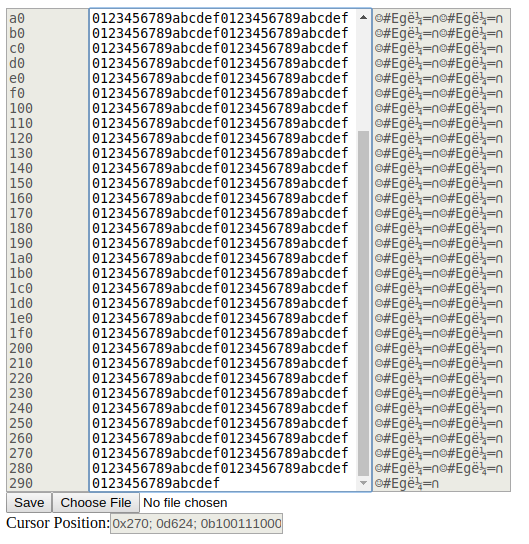
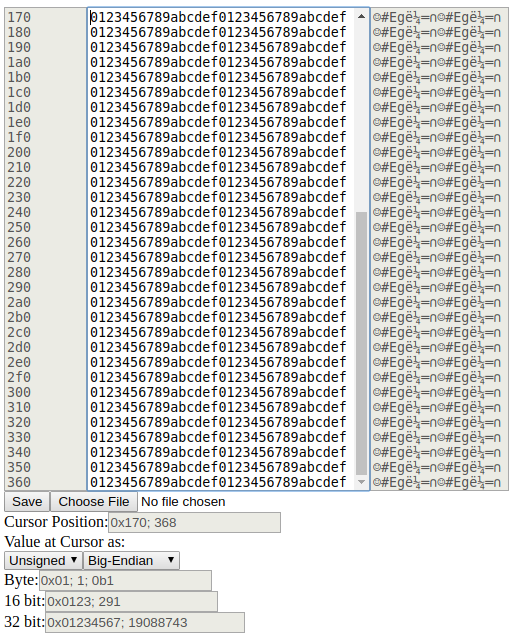
Added 'value at cursor' fields.

diff --git a/Source/Session.js b/Source/Session.js
@@ -61,18 +61,96 @@ function Session(bytes)
 
 			divSession.appendChild(divFileOperations);
 
-			var divCursor = d.createElement("div");
+			var divCursorPosition = d.createElement("div");
 
 			var labelCursorPosition = d.createElement("label");
 			labelCursorPosition.innerHTML = "Cursor Position:";
-			divCursor.appendChild(labelCursorPosition);
+			divCursorPosition.appendChild(labelCursorPosition);
 
 			var inputCursorPosition = d.createElement("input");
 			inputCursorPosition.disabled = true;
 			this.inputCursorPosition = inputCursorPosition;
-			divCursor.appendChild(inputCursorPosition);
+			divCursorPosition.appendChild(inputCursorPosition);
 
-			divSession.appendChild(divCursor);
+			divSession.appendChild(divCursorPosition);
+
+			var divCursorValue = d.createElement("div");
+
+			var labelCursorValue = d.createElement("label");
+			labelCursorValue.innerHTML = "Value at Cursor as:";
+			divCursorValue.appendChild(labelCursorValue);
+
+			var divCursorValueEncoding = d.createElement("div");
+
+			var selectSignedOrUnsigned = d.createElement("select");
+			this.selectSignedOrUnsigned = selectSignedOrUnsigned;
+
+			var optionUnsigned = d.createElement("option");
+			optionUnsigned.innerHTML = "Unsigned";
+			selectSignedOrUnsigned.appendChild(optionUnsigned);
+
+			var optionSigned = d.createElement("option");
+			optionSigned.innerHTML = "Signed";
+			selectSignedOrUnsigned.appendChild(optionSigned);
+
+			divCursorValueEncoding.appendChild(selectSignedOrUnsigned);
+
+			var selectEndianness = d.createElement("select");
+			this.selectEndianness = selectEndianness;
+
+			var optionBig = d.createElement("option");
+			optionBig.innerHTML = "Big-Endian";
+			selectEndianness.appendChild(optionBig);
+
+			var optionLittle = d.createElement("option");
+			optionLittle.innerHTML = "Little-Endian";
+			selectEndianness.appendChild(optionLittle);
+
+			divCursorValueEncoding.appendChild(selectEndianness);
+
+			divCursorValue.appendChild(divCursorValueEncoding);
+
+			var divCursorValueByte = d.createElement("div");
+
+			var labelCursorValueByte = d.createElement("label");
+			labelCursorValueByte.innerHTML = "Byte:";
+			divCursorValueByte.appendChild(labelCursorValueByte);
+
+			var inputCursorValueByte = d.createElement("input");
+			inputCursorValueByte.disabled = true;
+			this.inputCursorValueByte = inputCursorValueByte;
+			divCursorValueByte.appendChild(inputCursorValueByte);
+
+			divCursorValue.appendChild(divCursorValueByte);
+
+			var divCursorValueShort = d.createElement("div");
+
+			var labelCursorValueShort = d.createElement("label");
+			labelCursorValueShort.innerHTML = "16 bit:";
+			divCursorValueShort.appendChild(labelCursorValueShort);
+
+			var inputCursorValueShort = d.createElement("input");
+			inputCursorValueShort.disabled = true;
+			this.inputCursorValueShort = inputCursorValueShort;
+			divCursorValueShort.appendChild(this.inputCursorValueShort);
+
+			divCursorValue.appendChild(divCursorValueShort);
+
+			var divCursorValueInt = d.createElement("div");
+
+			var labelCursorValueInt = d.createElement("label");
+			labelCursorValueInt.innerHTML = "32 bit:";
+			divCursorValueInt.appendChild(labelCursorValueInt);
+
+			var inputCursorValueInt = d.createElement("input");
+			inputCursorValueInt.disabled = true;
+			inputCursorValueInt.style.width = "200px";
+			this.inputCursorValueInt = inputCursorValueInt;
+			divCursorValueInt.appendChild(this.inputCursorValueInt);
+
+			divCursorValue.appendChild(divCursorValueInt);
+
+			divSession.appendChild(divCursorValue);
 
 			var divMain = d.getElementById("divMain");
 			divMain.appendChild(divSession);
@@ -99,10 +177,87 @@ function Session(bytes)
 		var cursorPos = Math.floor(this.textareaHexadecimal.selectionStart / charsPerByte);
 		var cursorPosAsString =
 			"0x" + cursorPos.toString(16)
-			+ "; 0d" + cursorPos
-			+ "; 0b" + cursorPos.toString(2);
+			+ "; " + cursorPos;
 
 		this.inputCursorPosition.value = cursorPosAsString;
+
+		var isSigned = (this.selectSignedOrUnsigned.selectedOptions[0].value == "Signed");
+		var isLittleEndian = (this.selectEndianness.selectedOptions[0].value == "Little-Endian");
+
+		var cursorValueByteAsHexadecimal = this.textareaHexadecimal.value.substr(cursorPos, 2);
+		var cursorValueByte = parseInt(cursorValueByteAsHexadecimal, 16);
+		if (isNaN(cursorValueByte) == false)
+		{
+			if (isSigned)
+			{
+				var valueMax = Math.pow(2, 7);
+				if (cursorValueByte > valueMax)
+				{
+					cursorValueByte = valueMax - cursorValueByte;
+				}
+			}
+
+			var cursorValueByteAsString =
+				"0x" + cursorValueByteAsHexadecimal
+				+ "; " + cursorValueByte
+				+ "; 0b" + cursorValueByte.toString(2);
+
+			this.inputCursorValueByte.value = cursorValueByteAsString;
+		}
+
+		var cursorValueShortAsHexadecimal = this.textareaHexadecimal.value.substr(cursorPos, 4);
+		if (isLittleEndian)
+		{
+			cursorValueShortAsHexadecimal =
+				cursorValueShortAsHexadecimal.substr(2)
+				+ cursorValueShortAsHexadecimal.substr(0, 2)
+		}
+		var cursorValueShort = parseInt(cursorValueShortAsHexadecimal, 16);
+		if (isNaN(cursorValueShort) == false)
+		{
+			if (isSigned)
+			{
+				var valueMax = Math.pow(2, 15);
+				if (cursorValueShort > valueMax)
+				{
+					cursorValueShort = valueMax - cursorValueShort;
+				}
+			}
+
+			var cursorValueShortAsString =
+				"0x" + cursorValueShortAsHexadecimal
+				+ "; " + cursorValueShort;
+
+			this.inputCursorValueShort.value = cursorValueShortAsString;
+		}
+
+		var cursorValueIntAsHexadecimal = this.textareaHexadecimal.value.substr(cursorPos, 8);
+		if (isLittleEndian)
+		{
+			cursorValueIntAsHexadecimal =
+				cursorValueIntAsHexadecimal.substr(6)
+				+ cursorValueIntAsHexadecimal.substr(4, 2)
+				+ cursorValueIntAsHexadecimal.substr(2, 2)
+				+ cursorValueIntAsHexadecimal.substr(0, 2)
+		}
+		var cursorValueInt = parseInt(cursorValueIntAsHexadecimal, 16);
+		if (isNaN(cursorValueInt) == false)
+		{
+			if (isSigned)
+			{
+				var valueMax = Math.pow(2, 31);
+				if (cursorValueInt > valueMax)
+				{
+					cursorValueInt = valueMax - cursorValueInt;
+				}
+			}
+
+			var cursorValueIntAsString =
+				"0x" + cursorValueIntAsHexadecimal
+				+ "; " + cursorValueInt;
+
+			this.inputCursorValueInt.value = cursorValueIntAsString;
+		}
 
 		var rowsVisible = this.textareaHexadecimal.rows;
 		var rowHeightInPixels = this.textareaHexadecimal.offsetHeight / rowsVisible;

diff --git a/Source/HexEditor.html b/Source/HexEditor.html
@@ -1,8 +1,8 @@
 <html>
 <body>
- 
+
 <div id="divMain"></div>
-  
+
 <script type="text/javascript" src="StringExtensions.js"></script>
 <script type="text/javascript" src="Converter.js" charset="UTF-8"></script>
 <script type="text/javascript" src="Globals.js"></script>
@@ -12,11 +12,10 @@
 function main()
 {
     var session = new Session([]);
- 
     Globals.Instance.initialize(session);
 }
 
 main();
 </script>
-
- 
+</body>
+</html>

diff --git a/Source/Converter.js b/Source/Converter.js
@@ -7,7 +7,7 @@ function Converter()
 }
 
 {
-	Converter.AsciiCharacters = 
+	Converter.AsciiCharacters =
 		"␀☺☻♥♦♣♠•◘○◙♂♀♪♫☼►" // 0-16
 		+ "◄↕‼¶§▬↨↑↓→←∟↔▲▼␠" // 17-32
 		+ "!\"#$%&'()*+,-./0" // 33-48

diff --git a/Source/Globals.js b/Source/Globals.js
@@ -1,4 +1,4 @@
- 
+
 function Globals()
 {
 	// do nothing
